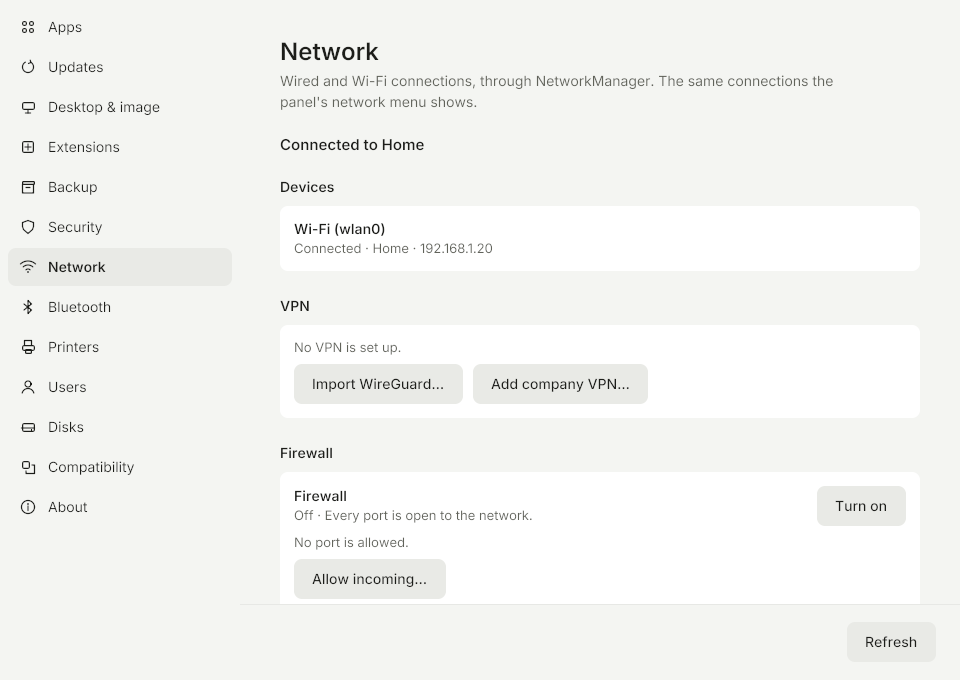
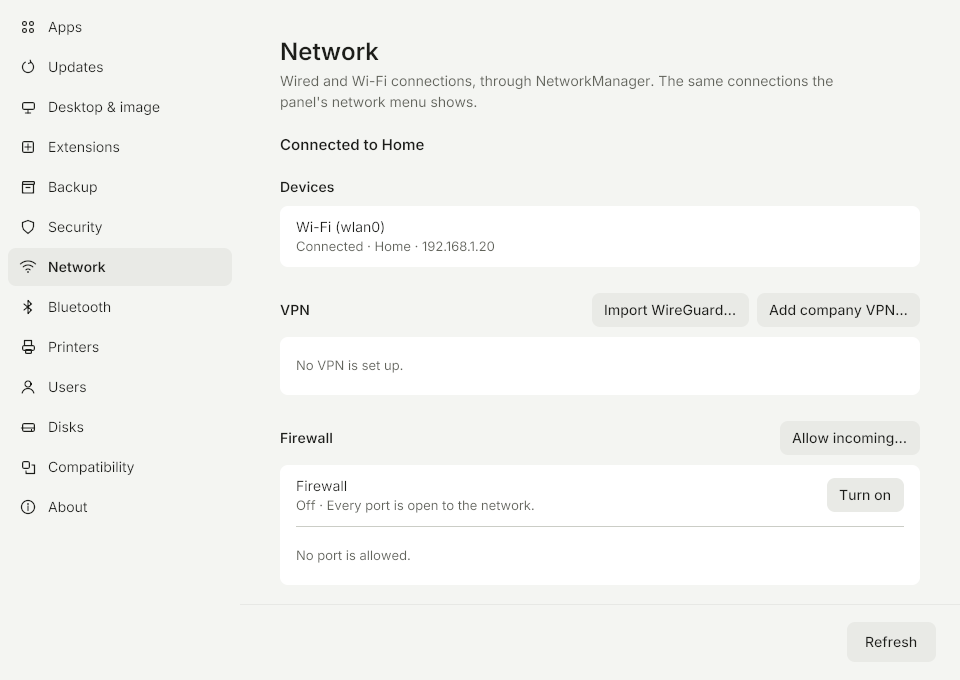
feat(system): settings rows on the Network page
Devices, mobile broadband, VPN, remote desktop, firewall, Wi-Fi and the
networks are grouped rows with their buttons at the right. The VPN and
firewall add buttons move beside their headings, and Group now centres
a row that is shorter than its line.

diff --git a/cmd/isotope-system/page_network.go b/cmd/isotope-system/page_network.go
@@ -548,74 +548,61 @@ func (p *networkPage) Body(gtx layout.Context) layout.Dimensions {
 			c.gap(24)
 			c.add(u.caps(i18n.T("Devices")))
 			c.gap(10)
-			c.add(u.panel(func(gtx layout.Context) layout.Dimensions {
-				var rows col
-				for i, d := range st.Devices {
-					if i > 0 {
-						rows.gap(8)
-					}
-					sub := i18n.T(d.State)
-					if d.Connection != "" {
-						sub += " · " + d.Connection
-					}
-					if d.Address != "" {
-						sub += " · " + d.Address
-					}
-					rows.add(u.row(fmt.Sprintf("%s (%s)", i18n.T(d.Kind), d.Iface), sub, nil))
+			var rows []layout.Widget
+			for _, d := range st.Devices {
+				sub := i18n.T(d.State)
+				if d.Connection != "" {
+					sub += " · " + d.Connection
 				}
-				return rows.layout(gtx)
-			}))
+				if d.Address != "" {
+					sub += " · " + d.Address
+				}
+				rows = append(rows, u.actionRow("dev:"+d.Iface, fmt.Sprintf("%s (%s)", i18n.T(d.Kind), d.Iface), sub, nil))
+			}
+			c.add(u.group(rows...))
 		}
 		if len(st.Modems) > 0 {
 			c.gap(26)
 			c.add(u.caps(i18n.T("Mobile broadband")))
 			c.gap(10)
-			c.add(u.panel(func(gtx layout.Context) layout.Dimensions {
-				var rows col
-				for i, m := range st.Modems {
-					if i > 0 {
-						rows.gap(8)
-					}
-					k := p.modemClicksFor(m.ID)
-					label := i18n.T("Connect")
-					if m.Connected {
-						label = i18n.T("Disconnect")
-					}
-					rows.add(u.row(modemTitle(m), modemSub(m), u.buttons(
-						guikit.Action{Click: &k.toggle, Kind: guikit.ButtonSecondary, Label: label, Disabled: working != "" || !(m.Connected || m.Ready)},
-						guikit.Action{Click: &k.apn, Kind: guikit.ButtonGhost, Label: i18n.T("APN…"), Disabled: working != ""},
-					)))
+			var rows []layout.Widget
+			for _, m := range st.Modems {
+				k := p.modemClicksFor(m.ID)
+				label := i18n.T("Connect")
+				if m.Connected {
+					label = i18n.T("Disconnect")
 				}
-				return rows.layout(gtx)
-			}))
+				rows = append(rows, u.actionRow("modem:"+m.ID, modemTitle(m), modemSub(m), nil,
+					guikit.Action{Click: &k.toggle, Kind: guikit.ButtonSecondary, Label: label, Disabled: working != "" || !(m.Connected || m.Ready)},
+					guikit.Action{Click: &k.apn, Kind: guikit.ButtonSecondary, Label: i18n.T("APN…"), Disabled: working != ""},
+				))
+			}
+			c.add(u.group(rows...))
 		}
 		c.gap(26)
-		c.add(u.caps("VPN"))
+		c.add(u.section("VPN",
+			guikit.Action{Click: &p.importWG, Kind: guikit.ButtonSecondary, Label: i18n.T("Import WireGuard…"), Disabled: working != ""},
+			guikit.Action{Click: &p.addOC, Kind: guikit.ButtonSecondary, Label: i18n.T("Add company VPN…"), Disabled: working != ""},
+		))
 		c.gap(10)
-		c.add(u.panel(func(gtx layout.Context) layout.Dimensions {
-			var rows col
+		{
+			var rows []layout.Widget
 			for _, v := range vpns {
 				k := p.vpnClicksFor(v.UUID)
 				label, sub := i18n.T("Connect"), v.Kind
 				if v.Active {
 					label, sub = i18n.T("Disconnect"), i18n.Tf("%s · connected", v.Kind)
 				}
-				rows.add(u.row(v.ID, sub, u.buttons(
+				rows = append(rows, u.actionRow("vpn:"+v.UUID, v.ID, sub, nil,
 					guikit.Action{Click: &k.toggle, Kind: guikit.ButtonSecondary, Label: label, Disabled: working != ""},
-					guikit.Action{Click: &k.remove, Kind: guikit.ButtonGhost, Label: i18n.T("Remove"), Disabled: working != ""},
-				)))
-				rows.gap(8)
+					guikit.Action{Click: &k.remove, Kind: guikit.ButtonDanger, Label: i18n.T("Remove"), Disabled: working != ""},
+				))
 			}
 			if len(vpns) == 0 {
-				rows.add(u.dim(i18n.T("No VPN is set up.")))
-				rows.gap(8)
+				rows = append(rows, u.note(i18n.T("No VPN is set up.")))
 			}
-			rows.add(u.buttons(
-				guikit.Action{Click: &p.importWG, Kind: guikit.ButtonSecondary, Label: i18n.T("Import WireGuard…"), Disabled: working != ""},
-				guikit.Action{Click: &p.addOC, Kind: guikit.ButtonSecondary, Label: i18n.T("Add company VPN…"), Disabled: working != ""},
-			))
-			return rows.layout(gtx)
-		}))
+			c.add(u.group(rows...))
+		}
 		if u.hooks.RemoteDesktop != nil {
 			c.gap(26)
 			c.add(func(gtx layout.Context) layout.Dimensions { return p.remoteSection(gtx, rd, working) })
@@ -626,7 +613,7 @@ func (p *networkPage) Body(gtx layout.Context) layout.Dimensions {
 			return c.layout(gtx)
 		}
 		c.gap(26)
-		c.add(u.row("Wi-Fi", map[bool]string{true: i18n.T("On"), false: i18n.T("Off")}[st.WifiOn], func(gtx layout.Context) layout.Dimensions {
+		{
 			label := i18n.T("Turn on")
 			if st.WifiOn {
 				label = i18n.T("Turn off")
@@ -634,15 +621,15 @@ func (p *networkPage) Body(gtx layout.Context) layout.Dimensions {
 			as := []guikit.Action{{Click: &p.wifi, Kind: guikit.ButtonSecondary, Label: label}}
 			for _, d := range st.Devices {
 				if d.Kind == "Wi-Fi" && d.State == "Connected" {
-					as = append(as, guikit.Action{Click: &p.disconnect, Kind: guikit.ButtonGhost, Label: i18n.T("Disconnect")})
+					as = append(as, guikit.Action{Click: &p.disconnect, Kind: guikit.ButtonSecondary, Label: i18n.T("Disconnect")})
 					break
 				}
 			}
-			return u.buttons(as...)(gtx)
-		}))
+			c.add(u.group(u.actionRow("wifi", "Wi-Fi", map[bool]string{true: i18n.T("On"), false: i18n.T("Off")}[st.WifiOn], nil, as...)))
+		}
 		if chosen != "" {
 			c.gap(14)
-			c.add(u.panel(func(gtx layout.Context) layout.Dimensions {
+			c.add(u.group(func(gtx layout.Context) layout.Dimensions {
 				return u.Labelled(gtx, i18n.Tf("Password for %s", chosen), p.password, "", func(gtx layout.Context) layout.Dimensions {
 					return layout.Flex{Alignment: layout.Middle}.Layout(gtx,
 						layout.Flexed(1, func(gtx layout.Context) layout.Dimensions {
@@ -665,50 +652,41 @@ func (p *networkPage) Body(gtx layout.Context) layout.Dimensions {
 			case loading && len(aps) == 0:
 				c.add(u.spinnerLine(i18n.T("Looking for networks…")))
 			case len(aps) == 0:
-				c.add(u.dim(i18n.T("No network in range.")))
+				c.add(u.group(u.note(i18n.T("No network in range."))))
 			default:
-				c.add(u.panel(func(gtx layout.Context) layout.Dimensions {
-					var rows col
-					for i, a := range aps {
-						if i > 0 {
-							rows.gap(8)
-						}
-						k := p.clicksFor(a.SSID)
-						sub := i18n.Tf("Signal %d%%", a.Strength)
-						if a.Secured {
-							sub += " · " + i18n.T("secured")
-						}
-						if contains(st.Saved, a.SSID) {
-							sub += " · " + i18n.T("saved")
-						}
-						title := a.SSID
-						var right layout.Widget
-						if st.Connected && a.SSID == st.Name {
-							title = i18n.Tf("%s (connected)", title)
-						} else {
-							right = u.buttons(guikit.Action{Click: &k.connect, Kind: guikit.ButtonSecondary, Label: i18n.T("Connect"), Disabled: working != ""})
-						}
-						rows.add(u.row(title, sub, right))
+				var rows []layout.Widget
+				for _, a := range aps {
+					k := p.clicksFor(a.SSID)
+					sub := i18n.Tf("Signal %d%%", a.Strength)
+					if a.Secured {
+						sub += " · " + i18n.T("secured")
 					}
-					return rows.layout(gtx)
-				}))
+					if contains(st.Saved, a.SSID) {
+						sub += " · " + i18n.T("saved")
+					}
+					title := a.SSID
+					var as []guikit.Action
+					if st.Connected && a.SSID == st.Name {
+						title = i18n.Tf("%s (connected)", title)
+					} else {
+						as = append(as, guikit.Action{Click: &k.connect, Kind: guikit.ButtonSecondary, Label: i18n.T("Connect"), Disabled: working != ""})
+					}
+					rows = append(rows, u.actionRow("ap:"+a.SSID, title, sub, nil, as...))
+				}
+				c.add(u.group(rows...))
 			}
 		}
 		if len(st.Saved) > 0 {
 			c.gap(26)
 			c.add(u.caps(i18n.T("Saved networks")))
 			c.gap(10)
-			c.add(u.panel(func(gtx layout.Context) layout.Dimensions {
-				var rows col
-				for i, s := range st.Saved {
-					if i > 0 {
-						rows.gap(8)
-					}
-					k := p.clicksFor(s)
-					rows.add(u.row(s, "", u.buttons(guikit.Action{Click: &k.forget, Kind: guikit.ButtonGhost, Label: i18n.T("Forget"), Disabled: working != ""})))
-				}
-				return rows.layout(gtx)
-			}))
+			var rows []layout.Widget
+			for _, s := range st.Saved {
+				k := p.clicksFor(s)
+				rows = append(rows, u.actionRow("saved:"+s, s, "", nil,
+					guikit.Action{Click: &k.forget, Kind: guikit.ButtonSecondary, Label: i18n.T("Forget"), Disabled: working != ""}))
+			}
+			c.add(u.group(rows...))
 		}
 		return c.layout(gtx)
 	})

diff --git a/cmd/isotope-system/firewall.go b/cmd/isotope-system/firewall.go
@@ -219,53 +219,38 @@ func (p *networkPage) firewallSection(gtx layout.Context, in fwInput, working st
 	v := firewallViewOf(in)
 	off := !v.Enabled || working != ""
 	var c col
-	c.add(u.caps(i18n.T("Firewall")))
+	var add []guikit.Action
+	if v.CanAdd {
+		add = append(add, guikit.Action{Click: &p.fwAdd, Kind: guikit.ButtonSecondary, Label: i18n.T("Allow incoming…"), Disabled: off})
+	}
+	c.add(u.section(i18n.T("Firewall"), add...))
 	c.gap(10)
-	c.add(u.panel(func(gtx layout.Context) layout.Dimensions {
-		var rows col
-		var right layout.Widget
-		switch {
-		case v.Toggle != "":
-			right = u.buttons(guikit.Action{Click: &p.fwToggle, Kind: guikit.ButtonSecondary, Label: v.Toggle, Disabled: off})
-		case v.Reset != "":
-			right = u.buttons(guikit.Action{Click: &p.fwReset, Kind: guikit.ButtonSecondary, Label: v.Reset, Disabled: off})
-		}
-		rows.add(u.row(i18n.T("Firewall"), v.Sub, right))
-		if !v.CanAdd {
-			// Settings that cannot be read: the ports that can still be
-			// read, without buttons.
-			if v.Empty != "" {
-				rows.gap(8)
-				rows.add(u.dim(v.Empty))
-			}
-			for _, r := range v.Rows {
-				rows.gap(8)
-				rows.add(u.row(r.Title, r.Sub, nil))
-			}
-			if v.Hint != "" {
-				rows.gap(8)
-				rows.add(u.dim(v.Hint))
-			}
-			return rows.layout(gtx)
-		}
-		for _, r := range v.Rows {
-			rows.gap(8)
+	var top []guikit.Action
+	switch {
+	case v.Toggle != "":
+		top = append(top, guikit.Action{Click: &p.fwToggle, Kind: guikit.ButtonSecondary, Label: v.Toggle, Disabled: off})
+	case v.Reset != "":
+		top = append(top, guikit.Action{Click: &p.fwReset, Kind: guikit.ButtonSecondary, Label: v.Reset, Disabled: off})
+	}
+	rows := []layout.Widget{u.actionRow("fw", i18n.T("Firewall"), v.Sub, nil, top...)}
+	for _, r := range v.Rows {
+		var as []guikit.Action
+		// Settings that cannot be read list the ports that can still be
+		// read, without buttons.
+		if v.CanAdd {
 			k := p.fwClicksFor(r.Rule)
-			rows.add(u.row(r.Title, r.Sub, u.buttons(
-				guikit.Action{Click: &k.remove, Kind: guikit.ButtonGhost, Label: i18n.T("Remove"), Disabled: off})))
+			as = append(as, guikit.Action{Click: &k.remove, Kind: guikit.ButtonSecondary, Label: i18n.T("Remove"), Disabled: off})
 		}
-		if v.Empty != "" {
-			rows.gap(8)
-			rows.add(u.dim(v.Empty))
-		}
-		if v.Hint != "" {
-			rows.gap(8)
-			rows.add(u.dim(v.Hint))
-		}
-		rows.gap(8)
-		rows.add(u.buttons(guikit.Action{Click: &p.fwAdd, Kind: guikit.ButtonSecondary, Label: i18n.T("Allow incoming…"), Disabled: off}))
-		return rows.layout(gtx)
-	}))
+		rows = append(rows, u.actionRow("fw:"+r.Title+"|"+r.Sub, r.Title, r.Sub, nil, as...))
+	}
+	if v.Empty != "" {
+		rows = append(rows, u.note(v.Empty))
+	}
+	c.add(u.group(rows...))
+	if v.Hint != "" {
+		c.gap(8)
+		c.add(u.dim(v.Hint))
+	}
 	return c.layout(gtx)
 }
 

diff --git a/cmd/isotope-system/remote.go b/cmd/isotope-system/remote.go
@@ -308,34 +308,28 @@ func (p *networkPage) remoteSection(gtx layout.Context, in rdInput, working stri
 	var c col
 	c.add(u.caps(i18n.T("Remote desktop")))
 	c.gap(10)
-	c.add(u.panel(func(gtx layout.Context) layout.Dimensions {
-		var rows col
-		var right layout.Widget
-		switch {
-		case v.Toggle != "":
-			kind := guikit.ButtonSecondary
-			right = u.buttons(guikit.Action{Click: &p.rdk.toggle, Kind: kind, Label: v.Toggle, Disabled: off})
-		case v.Extension:
-			right = u.buttons(guikit.Action{Click: &p.rdk.extensions, Kind: guikit.ButtonSecondary, Label: i18n.T("Open Extensions")})
-		}
-		rows.add(u.row(i18n.T("Remote desktop"), v.Sub, right))
-		for _, r := range v.Rows {
-			rows.gap(8)
-			rows.add(u.row(r[0], r[1], nil))
-		}
-		if v.Warn != "" {
-			rows.gap(10)
-			rows.add(u.notice(v.Warn))
-		}
-		if v.Hint != "" {
-			rows.gap(8)
-			rows.add(u.dim(v.Hint))
-		}
-		if v.Password != "" {
-			rows.gap(8)
-			rows.add(u.buttons(guikit.Action{Click: &p.rdk.password, Kind: guikit.ButtonSecondary, Label: v.Password, Disabled: off}))
-		}
-		return rows.layout(gtx)
-	}))
+	var as []guikit.Action
+	switch {
+	case v.Toggle != "":
+		as = append(as, guikit.Action{Click: &p.rdk.toggle, Kind: guikit.ButtonSecondary, Label: v.Toggle, Disabled: off})
+	case v.Extension:
+		as = append(as, guikit.Action{Click: &p.rdk.extensions, Kind: guikit.ButtonSecondary, Label: i18n.T("Open Extensions")})
+	}
+	if v.Password != "" {
+		as = append(as, guikit.Action{Click: &p.rdk.password, Kind: guikit.ButtonSecondary, Label: v.Password, Disabled: off})
+	}
+	rows := []layout.Widget{u.actionRow("rd", i18n.T("Remote desktop"), v.Sub, nil, as...)}
+	for _, r := range v.Rows {
+		rows = append(rows, u.actionRow("rd:"+r[0], r[0], r[1], nil))
+	}
+	c.add(u.group(rows...))
+	if v.Warn != "" {
+		c.gap(10)
+		c.add(u.notice(v.Warn))
+	}
+	if v.Hint != "" {
+		c.gap(8)
+		c.add(u.dim(v.Hint))
+	}
 	return c.layout(gtx)
 }

diff --git a/pkg/guikit/rows.go b/pkg/guikit/rows.go
@@ -40,7 +40,12 @@ func (th *Theme) Group(gtx layout.Context, rows ...layout.Widget) layout.Dimensi
 				return layout.Inset{Top: 12, Bottom: 12, Left: 16, Right: 16}.Layout(gtx, func(gtx layout.Context) layout.Dimensions {
 					gtx.Constraints.Min.X = gtx.Constraints.Max.X
 					gtx.Constraints.Min.Y = Dp(gtx, 34)
-					return layout.W.Layout(gtx, r)
+					// W keeps the minimum height: the row is centred in
+					// its 34 dp only when it does not take them.
+					return layout.W.Layout(gtx, func(gtx layout.Context) layout.Dimensions {
+						gtx.Constraints.Min.Y = 0
+						return r(gtx)
+					})
 				})
 			}))
 		}
